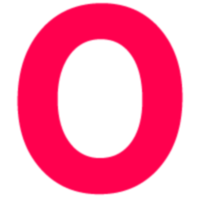
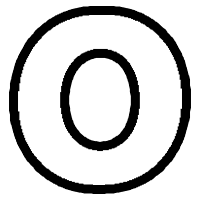
improve graphcis of x & o

diff --git a/game/javascript/game_table.js b/game/javascript/game_table.js
@@ -44,12 +44,21 @@ export class game_table{
                     }
                 }
             },
+            // remove all event on each block
             unsetup_blocks : () => {
                 for(let row of this.table.table.blocks){
                     for(let block of row){
                         block.dom.removeEventListener("click" , this.events.on_click);
                         block.dom.removeEventListener("mouseover", this.events.on_hover_in);
                         block.dom.removeEventListener("mouseout",  this.events.on_hover_out);
+                    }
+                }
+            },
+            // remove + clean block 
+            reset_blocks : () => {
+                for(let row of this.table.table.blocks){
+                    for(let block of row){
+                        block.clean();
                     }
                 }
             }
@@ -219,10 +228,10 @@ export class game_table{
         this.is_draw = () => {
             let len =  this.table.table.blocks.length;
             if(this.reservedBlock == len * len){
-                console.log("game is draw !!!")
+                console.log("game is draw !!!");
+                this.table.reset_blocks();
             }
         }
-
 
         // function who check if there's a winner 
         this.is_win = () => {
@@ -319,7 +328,6 @@ export class game_table{
                 this.table.unsetup_blocks();
                 return true;
             }
-
 
             // confirmation => "no winner found"
             return false;

diff --git a/game/javascript/table/blocks.js b/game/javascript/table/blocks.js
@@ -15,7 +15,14 @@ export class block{
             x : x , 
             y : y ,
         };
-    
+        
+        // clear & reset block 
+        this.clean = () => {
+            this.dom.style.backgroundImage = "none";
+            this.owner = null;
+            this.empty = true;
+        }
+
         // setup block
         this.dom.setAttribute("class","BLOCK_STYLE");
         this.dom.setAttribute("id",this.id);
